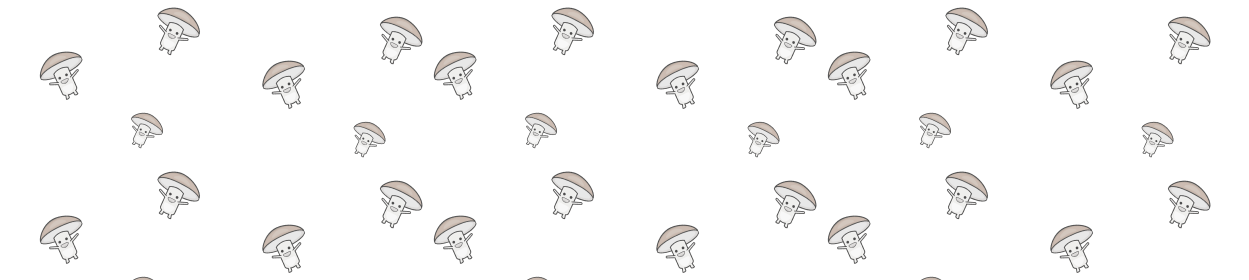
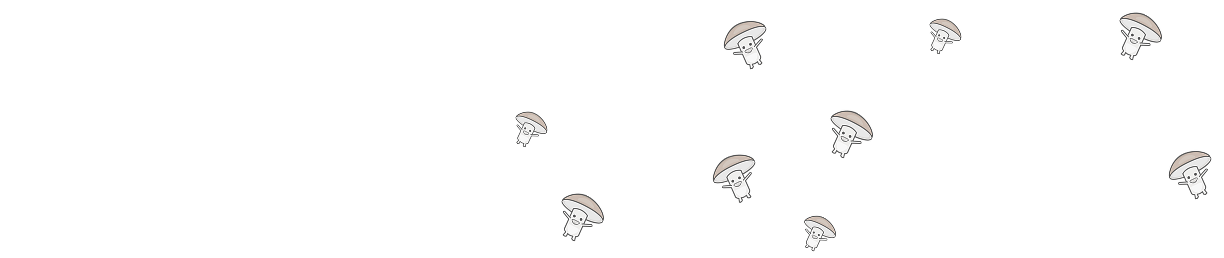
Обновлены размеры баннеров и поправлены отступы между блоками баннеров

diff --git a/frontend_fungi/src/pages/main-page/components/author-banner/AuthorBanner.tsx b/frontend_fungi/src/pages/main-page/components/author-banner/AuthorBanner.tsx
@@ -6,7 +6,7 @@ const AuthorBanner: React.FC = () => {
         <div className="author-banner-container">
             <div className="author-banner">
                 <div className="author-content">
-                    <h2 className="author-title">Стань автором статей</h2>
+                    <h2 className="author-title">СТАНЬ АВТОРОМ СТАТЕЙ</h2>
                     <div className="author-form">
                         <input
                             type="email"
@@ -14,7 +14,7 @@ const AuthorBanner: React.FC = () => {
                             className="email-input"
                         />
                         <button type="submit" className="submit-button">
-                            Отправить
+                            ОТПРАВИТЬ
                         </button>
                     </div>
                 </div>

diff --git a/frontend_fungi/src/pages/main-page/components/author-banner/AuthorBanner.css b/frontend_fungi/src/pages/main-page/components/author-banner/AuthorBanner.css
@@ -17,7 +17,6 @@
     display: flex;
     align-items: center;
     padding-left: 68px;
-    box-sizing: border-box;
 }
 
 .author-banner::before {
@@ -28,20 +27,20 @@
     right: 0;
     bottom: 0;
     background-image: url('../../../../public/images/png/mask-mushroom.png');
-    background-size: cover;
+    background-size: contain;
 }
 
 .author-content {
     position: relative;
-    z-index: 1;
+    z-index: 0;
 }
 
 .author-title {
     font-size: 50px;
-    margin-bottom: 11px;
-    color: #ffffff;
+    margin-bottom: 39px;
+    color: #656471;
     font-weight: bolder;
-    filter: drop-shadow(0 3px 4px rgba(0, 0, 0, 0.25));
+    opacity: 80%;
 }
 
 .author-form {
@@ -87,7 +86,7 @@
     position: absolute;
     right: 0;
     bottom: 0;
-    z-index: 2;
+    z-index: 1;
 }
 
 .plate-image {

diff --git a/frontend_fungi/src/pages/main-page/components/main-page/MainPage.tsx b/frontend_fungi/src/pages/main-page/components/main-page/MainPage.tsx
@@ -15,11 +15,11 @@ export const MainPage: React.FC = () => {
                 <MainBanner />
                 <StatsBanner />
                 <SurveyBanner />
-                <hr className="main-page__hr" />
+                <hr className="main-page__hr_1" />
                 <PublicationsBanner />
-                <hr className="main-page__hr" />
+                <hr className="main-page__hr_2" />
                 <MushroomBanner />
-                <hr className="main-page__hr" />
+                <hr className="main-page__hr_3" />
                 <AuthorBanner />
             </div>
         </div>

diff --git a/frontend_fungi/src/pages/main-page/components/main-banner/MainBanner.css b/frontend_fungi/src/pages/main-page/components/main-banner/MainBanner.css
@@ -1,10 +1,10 @@
 .main-banner {
-    width: 1248px;
-    height: 538px;
+    width: 1500px;
+    height: 606px;
     background: #F9F9F9;
     display: flex;
     justify-content: center;
-    margin-top: 253px;
+    margin-top: 238px;
 }
 
 .banner-content {
@@ -97,9 +97,4 @@
     max-width: 100%;
     max-height: 100%;
     object-fit: contain;
-}
-
-.main-page__hr{
-    width: 1248px;
-    color: #CBCBCB;
 }

diff --git a/frontend_fungi/src/app/router/index.tsx b/frontend_fungi/src/app/router/index.tsx
@@ -1,5 +1,5 @@
 import { Routes, Route, Navigate } from 'react-router-dom';
-import { MainPage } from '@pages/main-page/components/main-page/MainPage.tsx';
+import { MainPage } from '@pages/main-page';
 import { AboutUsPage } from '@pages/about-us';
 import { PublicationPage, PublicationsPage } from '@pages/publications';
 import { Encyclopedia } from '@pages/encyclopedia';

diff --git a/frontend_fungi/src/pages/main-page/components/main-page/MainPage.css b/frontend_fungi/src/pages/main-page/components/main-page/MainPage.css
@@ -13,3 +13,21 @@
     position: relative;
     background: #F9F9F9;
 }
+
+.main-page__hr_1{
+    width: 1720px;
+    color: #CBCBCB;
+    margin-top: 86px;
+}
+
+.main-page__hr_2{
+    width: 1720px;
+    color: #CBCBCB;
+    margin-top: 189px;
+}
+
+.main-page__hr_3{
+    width: 1720px;
+    color: #CBCBCB;
+    margin-top: 116px;
+}

diff --git a/frontend_fungi/src/pages/main-page/components/publications-banner/PublicationsBanner.css b/frontend_fungi/src/pages/main-page/components/publications-banner/PublicationsBanner.css
@@ -1,10 +1,10 @@
 .publications-banner {
-    width: 1248px;
-    height: 640px;
+    width: 1500px;
+    height: 521px;
     display: flex;
     flex-direction: column;
     align-items: center;
-    margin-top: 100px;
+    margin-top: 190px;
     font-family: Raleway;
 }
 

diff --git a/frontend_fungi/src/pages/main-page/components/mushroom-banner/MushroomBanner.css b/frontend_fungi/src/pages/main-page/components/mushroom-banner/MushroomBanner.css
@@ -1,7 +1,7 @@
 .mushroom-banner {
-    width: 1248px;
-    height: 725px;
-    margin-top: 100px;
+    width: 1500px;
+    height: 668px;
+    margin-top: 116px;
     display: flex;
     flex-direction: column;
     align-items: center;

diff --git a/frontend_fungi/src/pages/main-page/components/survey-banner/SurveyBanner.css b/frontend_fungi/src/pages/main-page/components/survey-banner/SurveyBanner.css
@@ -1,8 +1,8 @@
 .survey-banner {
-    width: 1248px;
-    height: 745px;
+    width: 1500px;
+    height: 728px;
     display: flex;
-    margin-top: 104px;
+    margin-top: 86px;
 }
 
 .survey-banner-content {

diff --git a/frontend_fungi/src/pages/main-page/components/stats-banner/StatsBanner.css b/frontend_fungi/src/pages/main-page/components/stats-banner/StatsBanner.css
@@ -6,7 +6,7 @@
     display: flex;
     width: 100%;
     height: 221px;
-    margin-top: 85px;
+    margin-top: 113px;
 }
 
 .stats-banner-content {

diff --git a/frontend_fungi/src/pages/main-page/index.ts b/frontend_fungi/src/pages/main-page/index.ts
@@ -1,0 +1,1 @@
+export { MainPage } from './components/main-page';

diff --git a/frontend_fungi/src/pages/main-page/components/main-page/index.ts b/frontend_fungi/src/pages/main-page/components/main-page/index.ts
@@ -1,0 +1,1 @@
+export { MainPage } from './MainPage.tsx';
